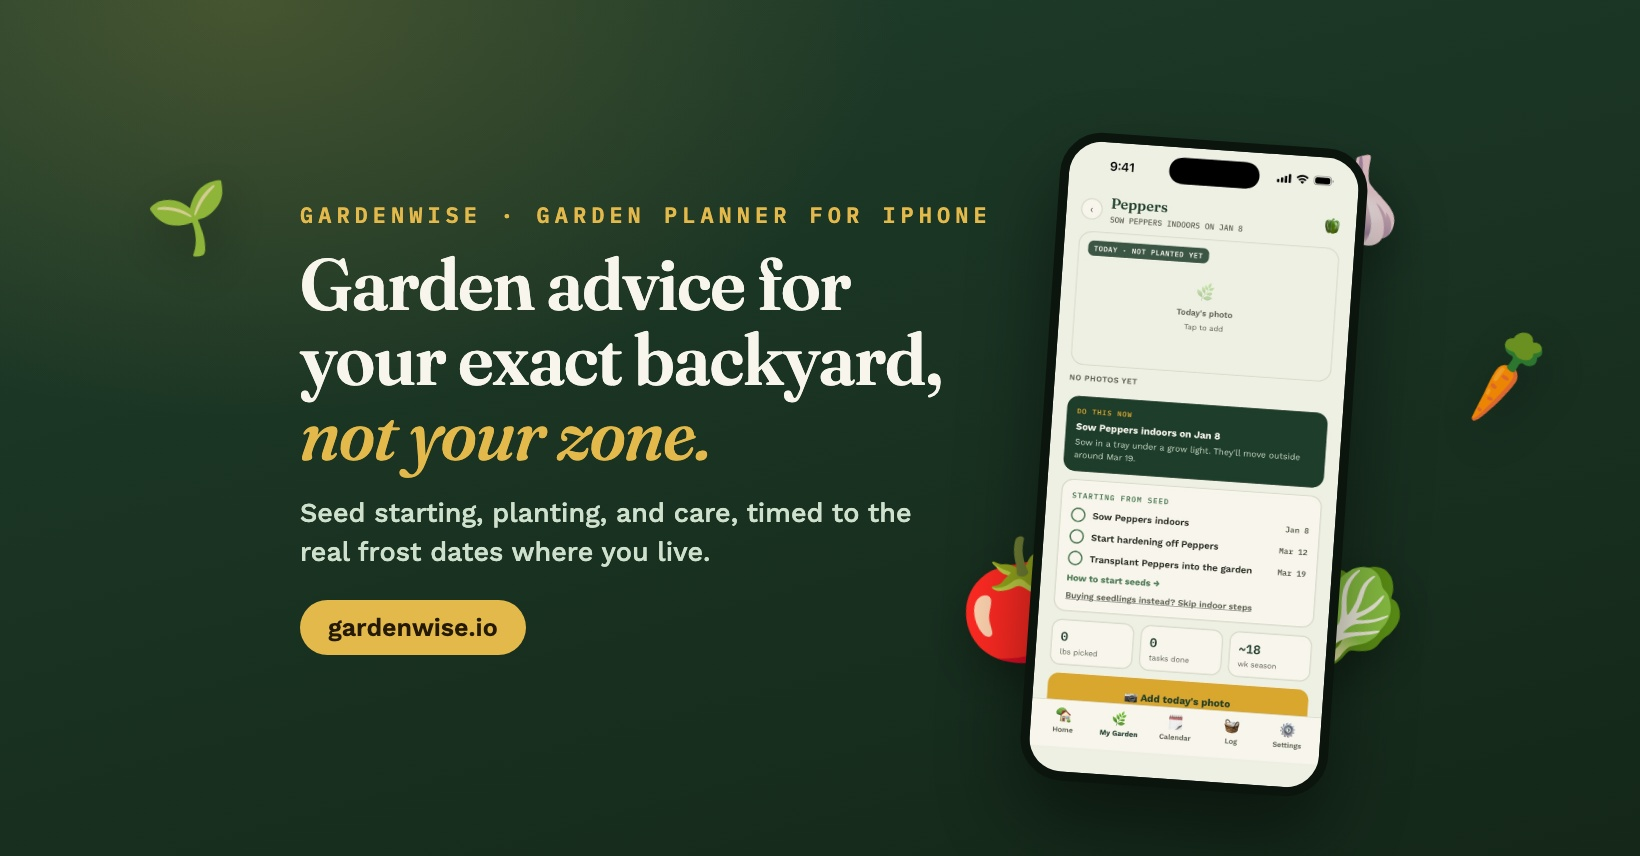
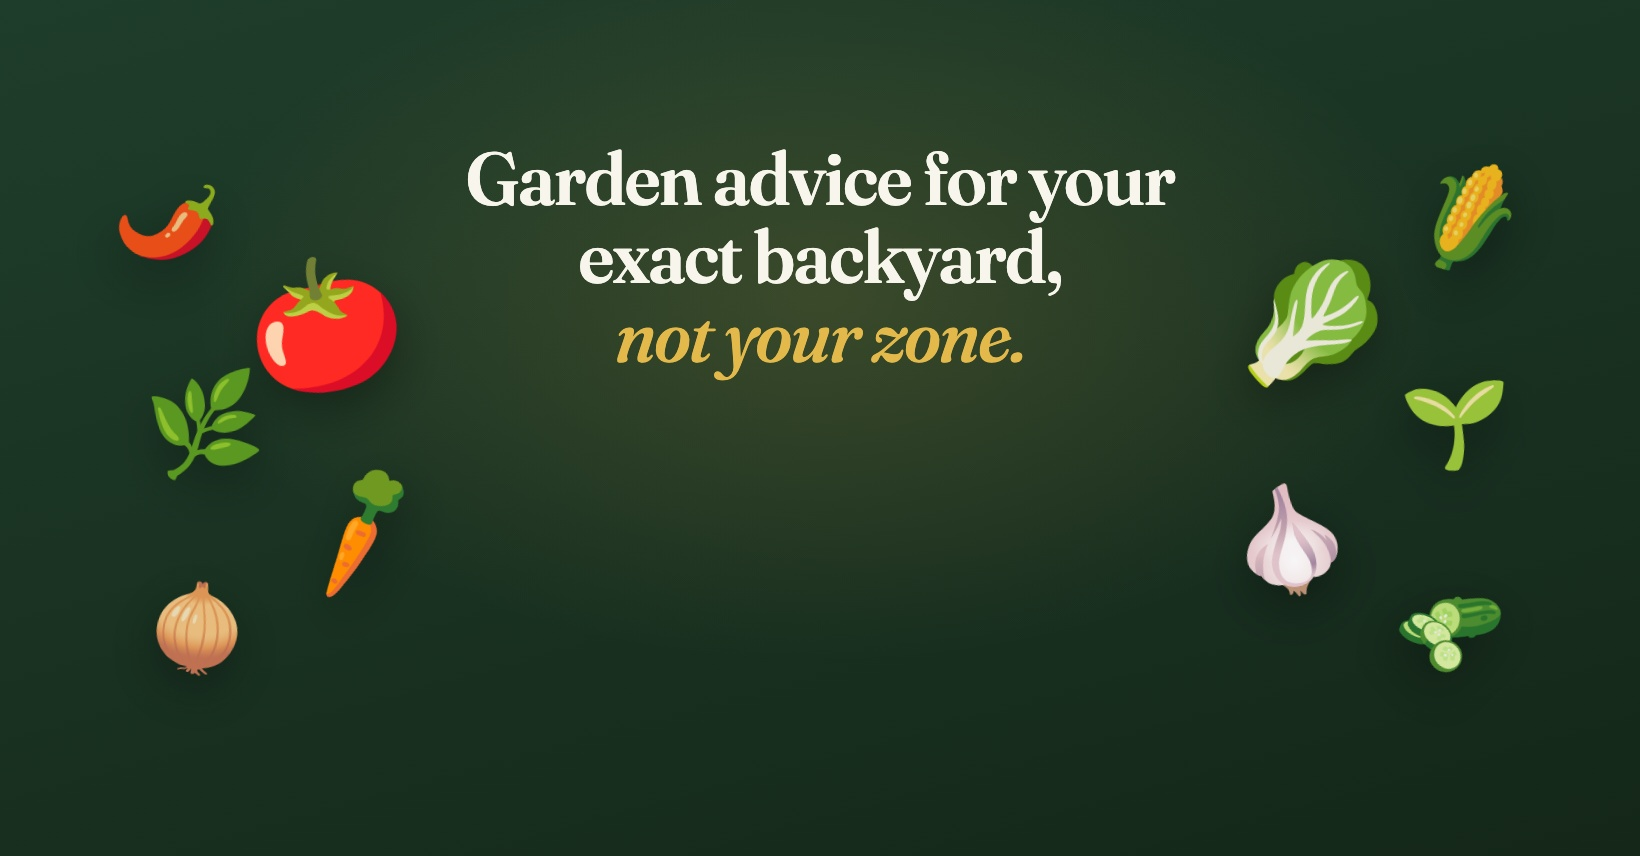
Facebook cover: headline and produce only, clear of the centred profile picture

Changed region(s): [[0.0933, 0.1519, 0.964, 0.9416], [0.0, 0.0, 0.311, 0.3037], [0.0933, 0.6682, 0.1555, 0.7897]]

diff --git a/marketing/facebook/cover-source.html b/marketing/facebook/cover-source.html
@@ -1,29 +1,25 @@
 <!doctype html><html><head><meta charset="utf-8">
-<link href="https://fonts.googleapis.com/css2?family=Fraunces:ital,opsz,wght@0,9..144,600;1,9..144,500&family=Work+Sans:wght@500;600&family=IBM+Plex+Mono:wght@600&display=swap" rel="stylesheet">
+<link href="https://fonts.googleapis.com/css2?family=Fraunces:ital,opsz,wght@0,9..144,600;1,9..144,500&display=swap" rel="stylesheet">
 <style>
 html,body{margin:0;width:1640px;height:856px;overflow:hidden}
-body{position:relative;font-family:'Work Sans',sans-serif;
- background:radial-gradient(ellipse 1100px 700px at 15% 0%,rgba(227,185,76,0.20),transparent 60%),linear-gradient(165deg,#1F3D2B 0%,#142719 100%)}
-.text{position:absolute;left:300px;top:200px;width:700px}
-.kicker{font-family:'IBM Plex Mono',monospace;font-size:22px;letter-spacing:5px;text-transform:uppercase;color:#E3B94C}
-h1{font-family:'Fraunces',serif;font-weight:600;font-size:72px;line-height:1.04;color:#F7F5EC;margin:18px 0 0;letter-spacing:-1px}
+body{position:relative;
+ background:radial-gradient(ellipse 900px 520px at 50% 35%,rgba(227,185,76,0.16),transparent 70%),linear-gradient(165deg,#1F3D2B 0%,#142719 100%)}
+.text{position:absolute;left:0;right:0;top:140px;display:flex;justify-content:center}
+h1{font-family:'Fraunces',serif;font-weight:600;font-size:74px;line-height:1.06;color:#F7F5EC;margin:0;letter-spacing:-1.5px;text-align:center;max-width:860px}
 h1 em{font-style:italic;font-weight:500;color:#E3B94C}
-p{font-size:27px;line-height:1.45;color:#CFE0CD;margin:22px 0 0;max-width:620px}
-.url{display:inline-block;margin-top:28px;font-weight:600;font-size:25px;color:#241a05;background:#E3B94C;border-radius:999px;padding:13px 28px}
-.phone{position:absolute;left:1040px;top:140px;width:290px;border-radius:42px;border:9px solid #0B150E;overflow:hidden;background:#0B150E;box-shadow:0 40px 80px rgba(0,0,0,0.45);transform:rotate(4deg)}
-.phone img{display:block;width:100%}
-.emo{position:absolute;filter:drop-shadow(0 18px 24px rgba(0,0,0,0.3))}
+.emo{position:absolute;filter:drop-shadow(0 18px 24px rgba(0,0,0,0.32))}
 </style></head><body>
-<img class="emo" src="emoji/emoji_u1f345.svg" style="width:140px;left:960px;top:530px;transform:rotate(-10deg)">
-<img class="emo" src="emoji/emoji_u1f9c4.svg" style="width:110px;left:1300px;top:150px;transform:rotate(12deg)">
-<img class="emo" src="emoji/emoji_u1f96c.svg" style="width:120px;left:1290px;top:560px;transform:rotate(8deg)">
-<img class="emo" src="emoji/emoji_u1f955.svg" style="width:90px;left:1460px;top:330px;transform:rotate(-14deg);opacity:0.92">
-<img class="emo" src="emoji/emoji_u1f331.svg" style="width:80px;left:150px;top:180px;transform:rotate(-8deg);opacity:0.9">
-<div class="phone"><img src="plant.jpg"></div>
-<div class="text">
-  <div class="kicker">GardenWise · Garden planner for iPhone</div>
-  <h1>Garden advice for your exact backyard, <em>not your zone.</em></h1>
-  <p>Seed starting, planting, and care, timed to the real frost dates where you live.</p>
-  <div class="url">gardenwise.io</div>
-</div>
+<!-- left cluster -->
+<img class="emo" src="emoji/emoji_u1f345.svg" style="width:150px;left:250px;top:250px;transform:rotate(-12deg)">
+<img class="emo" src="emoji/emoji_u1f955.svg" style="width:120px;left:300px;top:470px;transform:rotate(-24deg)">
+<img class="emo" src="emoji/emoji_u1f33f.svg" style="width:110px;left:150px;top:370px;transform:rotate(-6deg)">
+<img class="emo" src="emoji/emoji_u1f336.svg" style="width:96px;left:120px;top:170px;transform:rotate(18deg);opacity:0.9">
+<img class="emo" src="emoji/emoji_u1f9c5.svg" style="width:96px;left:150px;top:580px;transform:rotate(8deg);opacity:0.9">
+<!-- right cluster -->
+<img class="emo" src="emoji/emoji_u1f96c.svg" style="width:150px;left:1240px;top:250px;transform:rotate(10deg)">
+<img class="emo" src="emoji/emoji_u1f9c4.svg" style="width:120px;left:1230px;top:480px;transform:rotate(-10deg)">
+<img class="emo" src="emoji/emoji_u1f331.svg" style="width:104px;left:1400px;top:370px;transform:rotate(6deg)">
+<img class="emo" src="emoji/emoji_u1f33d.svg" style="width:96px;left:1420px;top:170px;transform:rotate(-16deg);opacity:0.9">
+<img class="emo" src="emoji/emoji_u1f952.svg" style="width:96px;left:1400px;top:580px;transform:rotate(22deg);opacity:0.9">
+<div class="text"><h1>Garden advice for your<br>exact backyard,<br><em>not your zone.</em></h1></div>
 </body></html>
